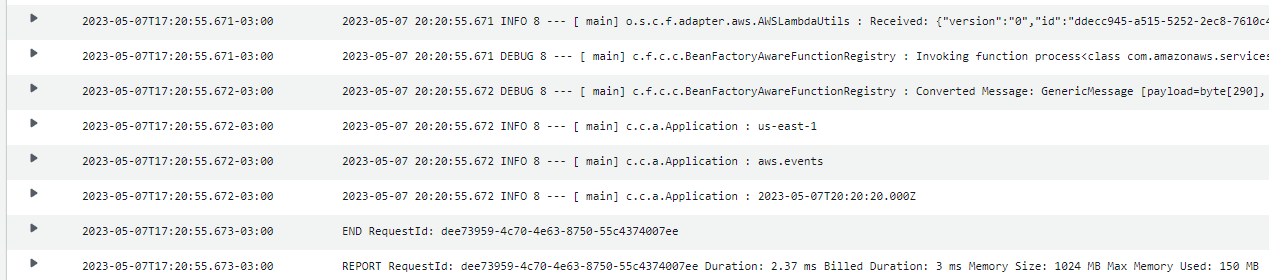
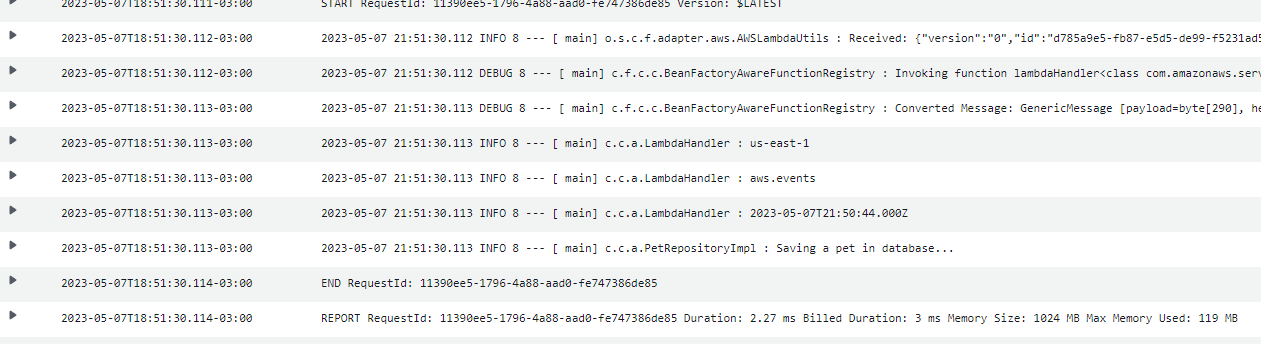
Update docs and README

diff --git a/README.md b/README.md
@@ -25,17 +25,21 @@ mvn -U clean install
 Examples
 
 ```java
-@Configuration
-public class FooConfiguration {
-    private static final Logger logger = LoggerFactory.getLogger(Application.class);
+@Component
+public class LambdaHandler implements Consumer<ScheduledEvent> {
+    private final PetRepository petRepository;
 
-    @Bean
-    public Consumer<ScheduledEvent> process() {
-        return value -> {
-            logger.info(value.getRegion());
-            logger.info(value.getSource());
-            logger.info(value.getTime().toString());
-        };
+    public LambdaHandler(PetRepository petRepository) {
+        this.petRepository = petRepository;
+    }
+
+    @Override
+    public void accept(ScheduledEvent scheduledEvent) {
+        log.info(scheduledEvent.getRegion());
+        log.info(scheduledEvent.getSource());
+        log.info(scheduledEvent.getTime().toString());
+
+        petRepository.save(Pet.builder().build());
     }
 }
 ```
